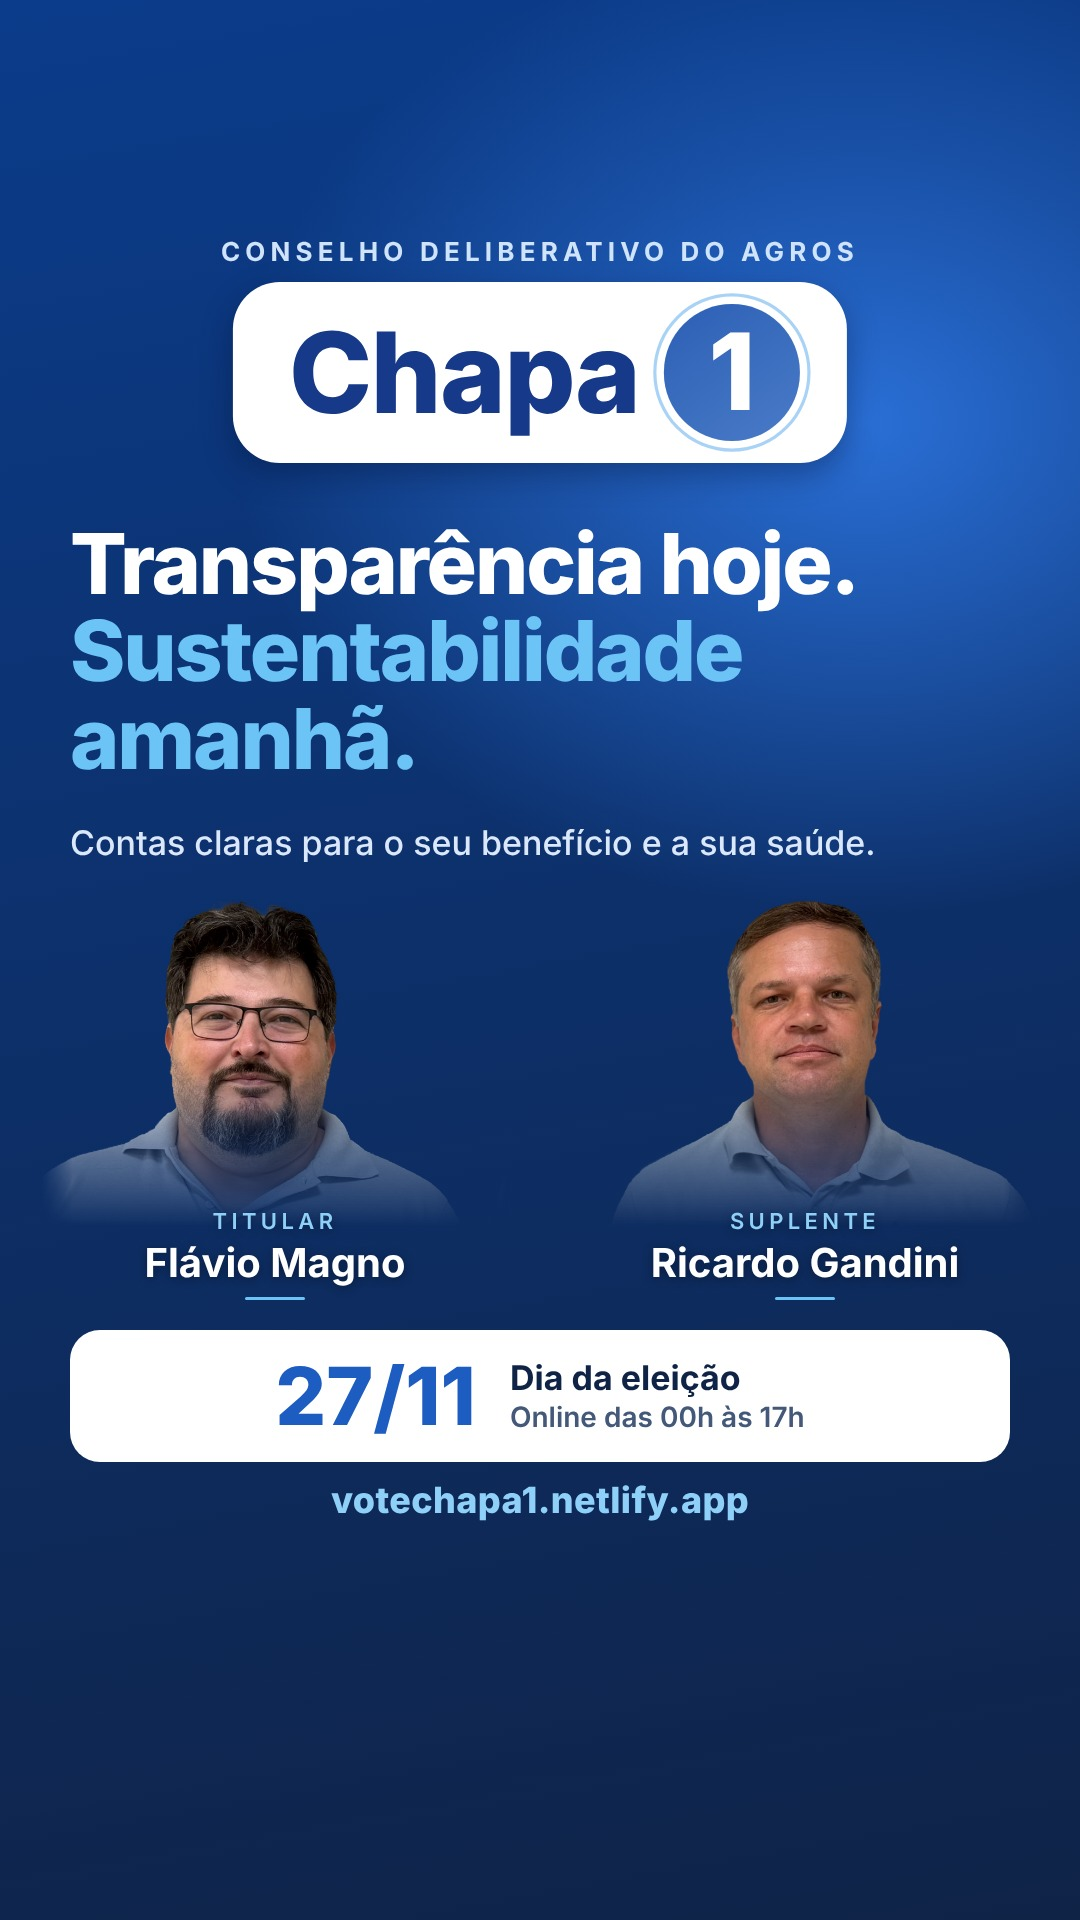
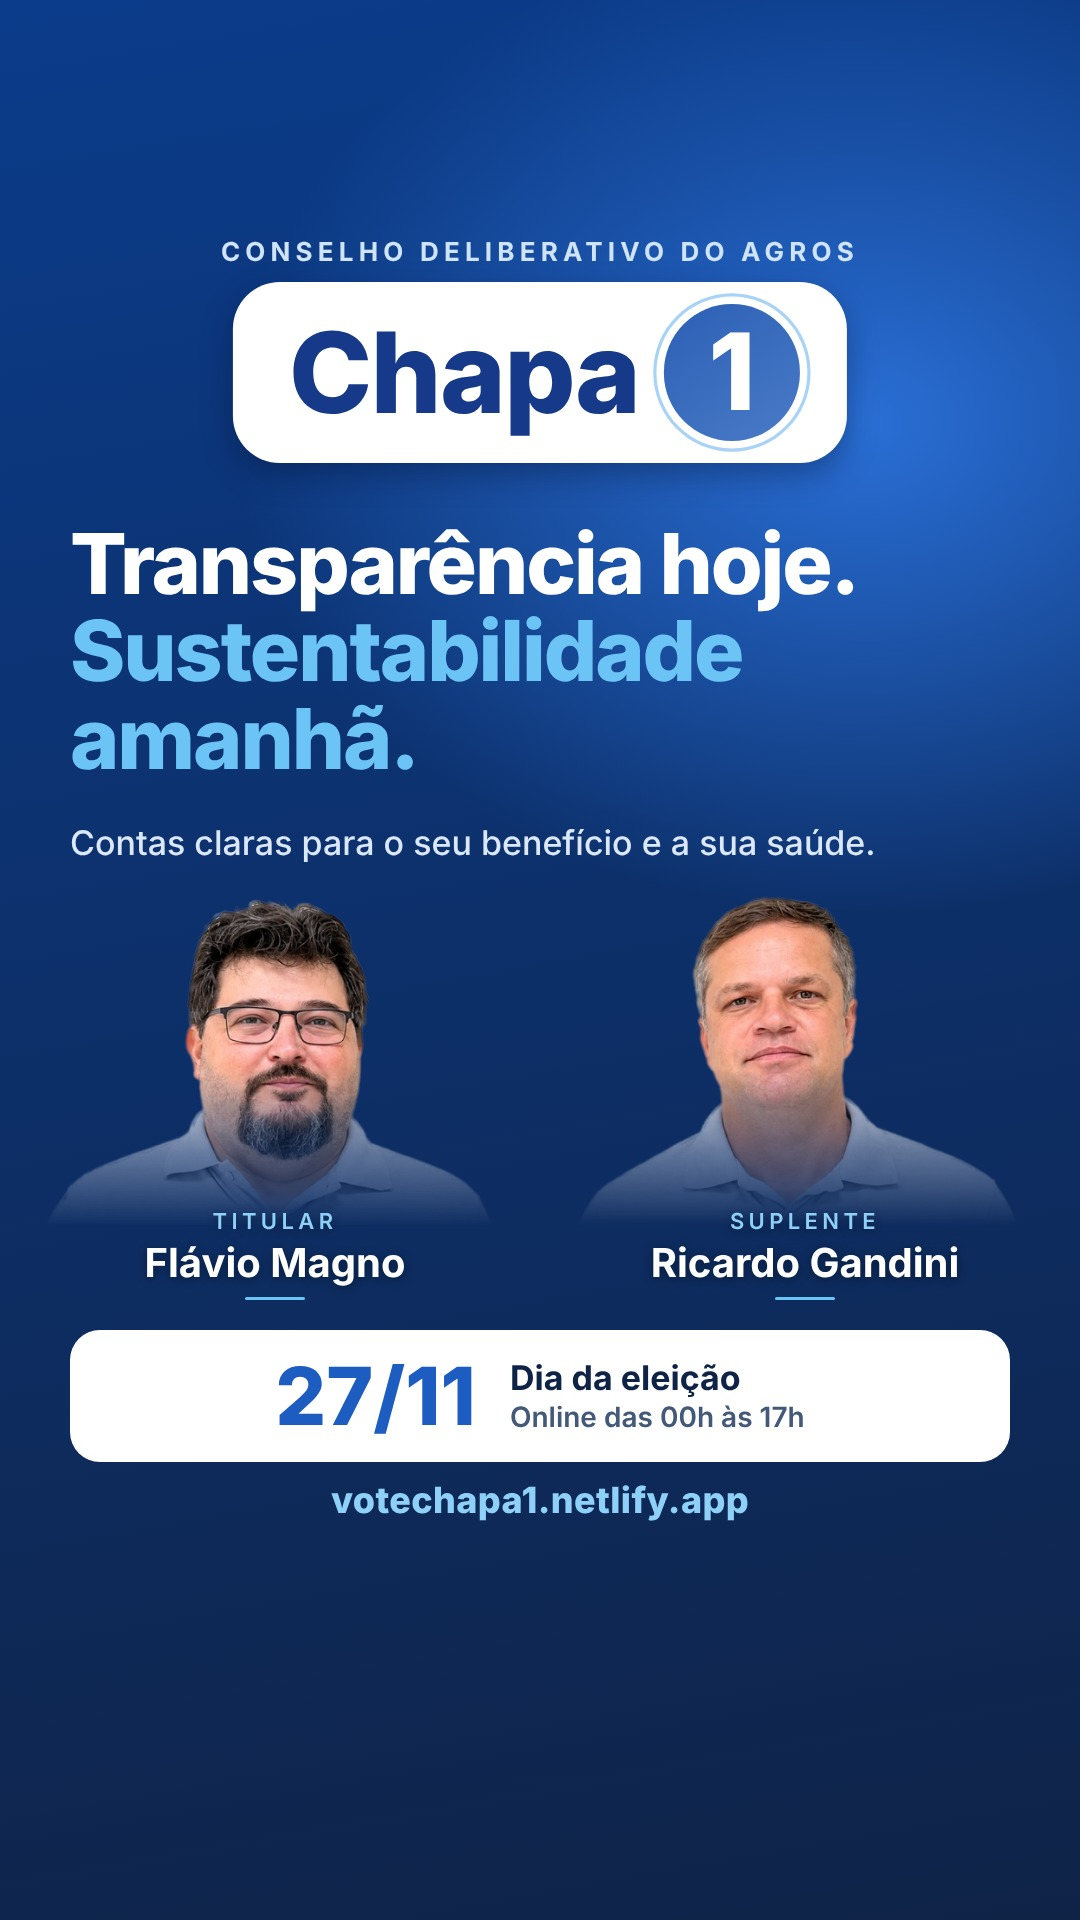
Volta à foto anterior da chapa; resumo do currículo não cobre mais as cabeças
Claude-Session: https://claude.ai/code/session_012fQ7TJU9ZbanJU5JEe53tU

diff --git a/index.html b/index.html
@@ -302,7 +302,7 @@ h2{margin-bottom:0}
 .hp{position:absolute;left:-9999px;height:0;overflow:hidden}
 @media (max-width:640px){.mf-row{grid-template-columns:1fr}}
 @media (min-width:901px){.cand{flex:0 0 auto;width:58%}.cand+.cand{margin-left:-14%}}
-@media (min-width:901px){.bio{left:12%;right:-6%;top:-28%;bottom:auto;padding:12px 15px;font-size:.84rem;line-height:1.4;border-radius:20px}.bio b{font-size:1.05rem;margin:2px 0 5px}.bio .r{font-size:.62rem;padding:1px 9px}}
+@media (min-width:901px){.bio{left:4%;right:4%;top:auto;bottom:1%;padding:7px 12px;font-size:.66rem;line-height:1.3;border-radius:14px}.bio b{font-size:.86rem;margin:1px 0 3px}.bio .r{font-size:.62rem;padding:1px 9px}}
 
 /* rentabilidade */
 .rt-ctrl{display:flex;flex-wrap:wrap;gap:12px 22px;align-items:center;margin:24px 0 6px}
